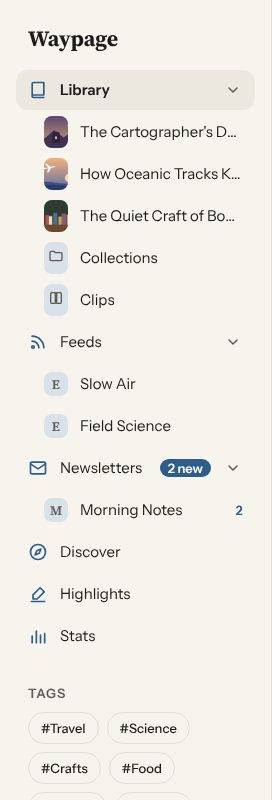
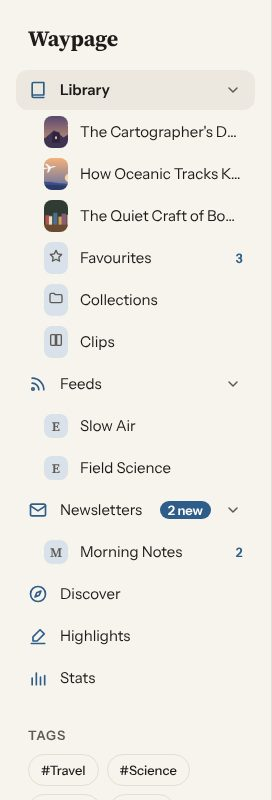
Sidebar: Favourites always under Library (#278)
It was only there as "All favourites" past six favourites, so with a
few favourites there was no way into the favourites filter from the
sidebar. Now a Favourites row sits with Collections and Clips, and a tap
from inside a collection or part steps back to the library first.

Claude-Session: https://claude.ai/code/session_01CFeKrkiwPirwEZuoGfQah7

diff --git a/test/ui.test.js b/test/ui.test.js
@@ -977,7 +977,7 @@ function zipOf(files) {
       await q.context().close();
     });
 
-    await test("the sidebar shows the favourites, then Collections and Clips (1.14.0)", async () => {
+    await test("the sidebar shows the favourites, Favourites, then Collections and Clips (1.14.0)", async () => {
       const q = await page(browser, 390);
       await q.evaluate(async () => {
         const c = (i, more) => ({ id: "fv" + i, url: "https://example.com/fv" + i, title: "Clip " + i, site: "example.com", savedAt: 1000 + i, minutes: 3, mode: "links", at: 0, finished: false, ...more });
@@ -992,7 +992,7 @@ function zipOf(files) {
       await q.locator(".page-card").first().waitFor();
       await q.click("#sideBtn");
       const labels = await q.locator("#sidebar .side-item .side-label").allTextContents();
-      assert.deepStrictEqual(labels.slice(0, 5), ["Library", "Trips", "Clip 3", "Collections", "Clips"], labels.join(", "));
+      assert.deepStrictEqual(labels.slice(0, 6), ["Library", "Trips", "Clip 3", "Favourites", "Collections", "Clips"], labels.join(", "));
       assert.ok(!labels.includes("Unloved") && !labels.includes("Files"), labels.join(", "));
       assert.strictEqual(await q.locator("#sidebar > .side-version").last().textContent(), "Version " + await q.evaluate(() => APP_VERSION), "the sidebar ends with the app version");
       await q.locator("#sidebar .side-item", { hasText: "Collections" }).click();
@@ -1003,6 +1003,15 @@ function zipOf(files) {
       await q.click("#sideBtn");
       await q.locator("#sidebar .side-item", { hasText: "Library" }).click();
       await until(q, () => !state.part && !state.side && !(history.state && history.state.view));
+      // Favourites from inside Collections: the library's favourites filter.
+      await q.waitForTimeout(400);
+      await q.evaluate(() => openPart("collections"));
+      await q.waitForTimeout(400);
+      await q.click("#sideBtn");
+      await q.locator("#sidebar .side-item", { hasText: "Favourites" }).click();
+      await until(q, () => state.filter === "favourites" && !state.part && !state.side && !(history.state && history.state.view));
+      await q.click("#sideBtn");
+      assert.strictEqual(await q.locator("#sidebar .side-item[aria-current]", { hasText: "Favourites" }).count(), 1, "Favourites isn't marked as open");
       assert.deepStrictEqual(q.errors, [], q.errors.join(" | "));
       await q.context().close();
     });

diff --git a/src/app-places.js b/src/app-places.js
@@ -846,8 +846,10 @@ function renderSide() {
     ...favs.slice(0, FAV_MAX).map((f) => f.folder
       ? item(sideCover(f.folder), f.folder, state.folder === f.folder, count(freshCount(f.folder)), () => openFromSide(f.folder), "side-sub")
       : item(clipCover(f.page), f.page.title, state.open === f.page, null, () => fromSide().then(() => openPage(f.page.id)), "side-sub")),
-    favs.length > FAV_MAX ? item(sideMark("star"), "All favourites", inLib && !state.part && state.filter === "favourites", count(favs.length),
-      () => goPlace("library").then(() => setFilter("favourites")), "side-sub") : null,
+    // Favourites, always there (2026-11, Daniel's ask): the library's
+    // favourites filter, collections and clips alike.
+    item(sideMark("star"), "Favourites", inLib && !state.part && !state.folder && state.filter === "favourites", count(favs.length),
+      () => toLibrary().then(() => goPlace("library")).then(() => setFilter("favourites")), "side-sub"),
     // The library's parts (1.14.0), each opening alone.
     hasFolders ? item(sideMark("folder"), "Collections", inLib && state.part === "collections", null, () => partFromSide("collections"), "side-sub") : null,
     item(sideMark("open"), "Clips", inLib && state.part === "pages", null, () => partFromSide("pages"), "side-sub"),

diff --git a/changes/feature-sidebar-favourites.md b/changes/feature-sidebar-favourites.md
@@ -1,0 +1,2 @@
+### Added
+- Favourites in the sidebar, under Library with Collections and Clips: it opens the library's favourites, the favourite collections and every favourite clip. It's always there now, not only once you have more than six favourites.
